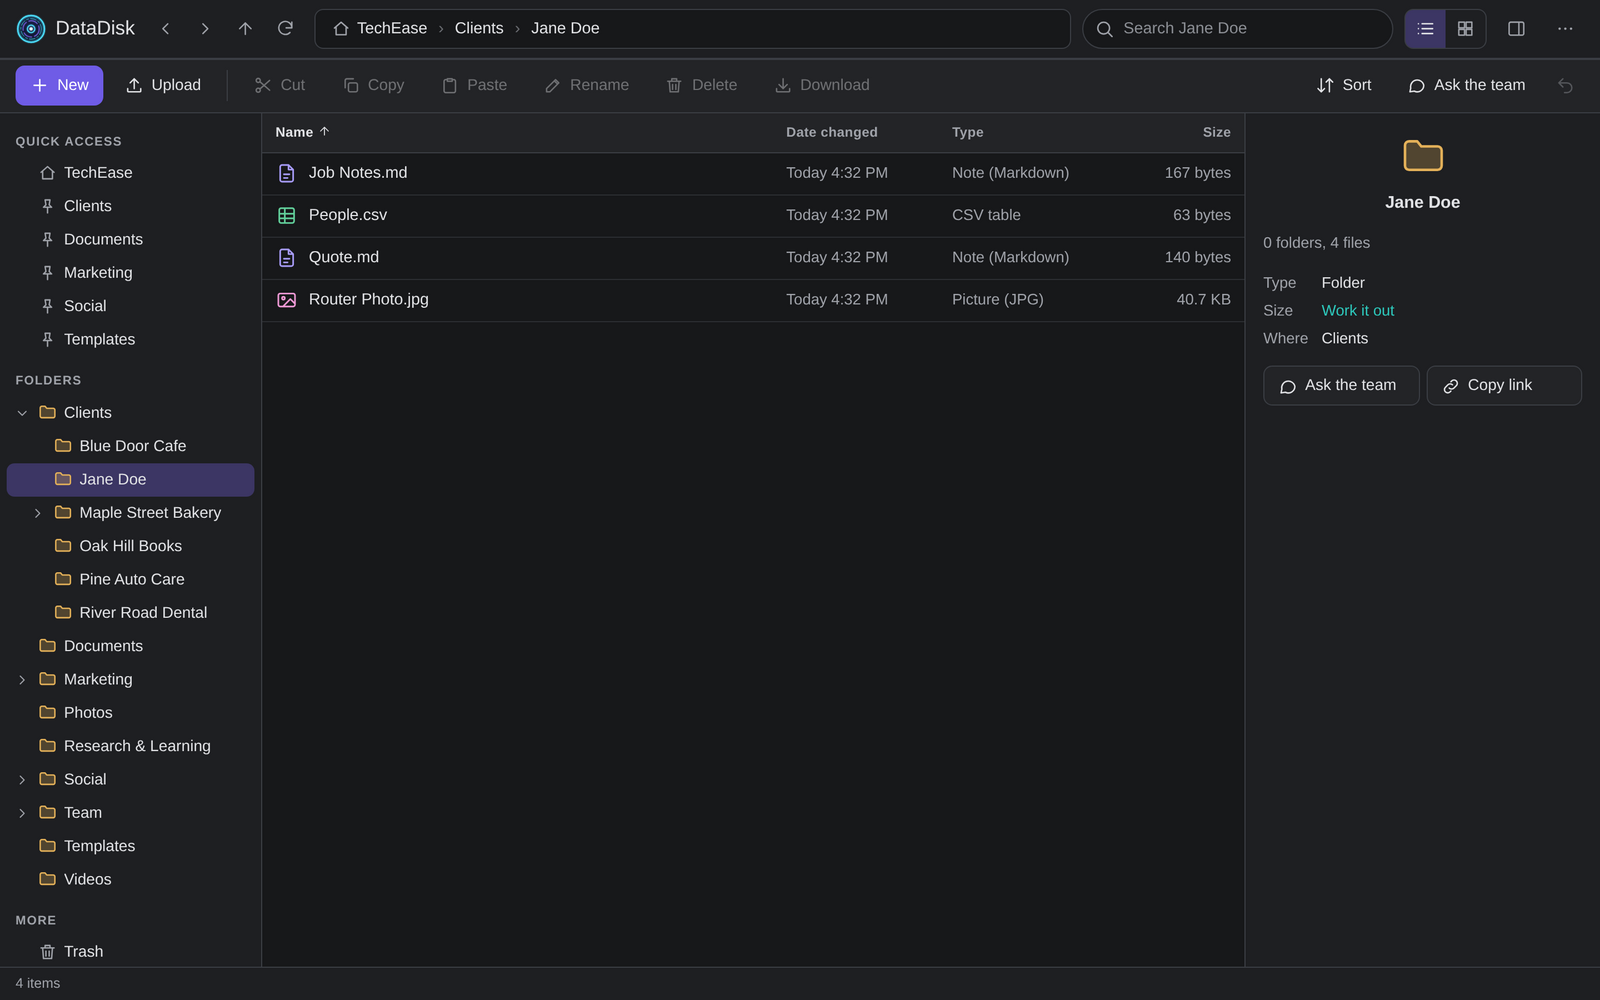
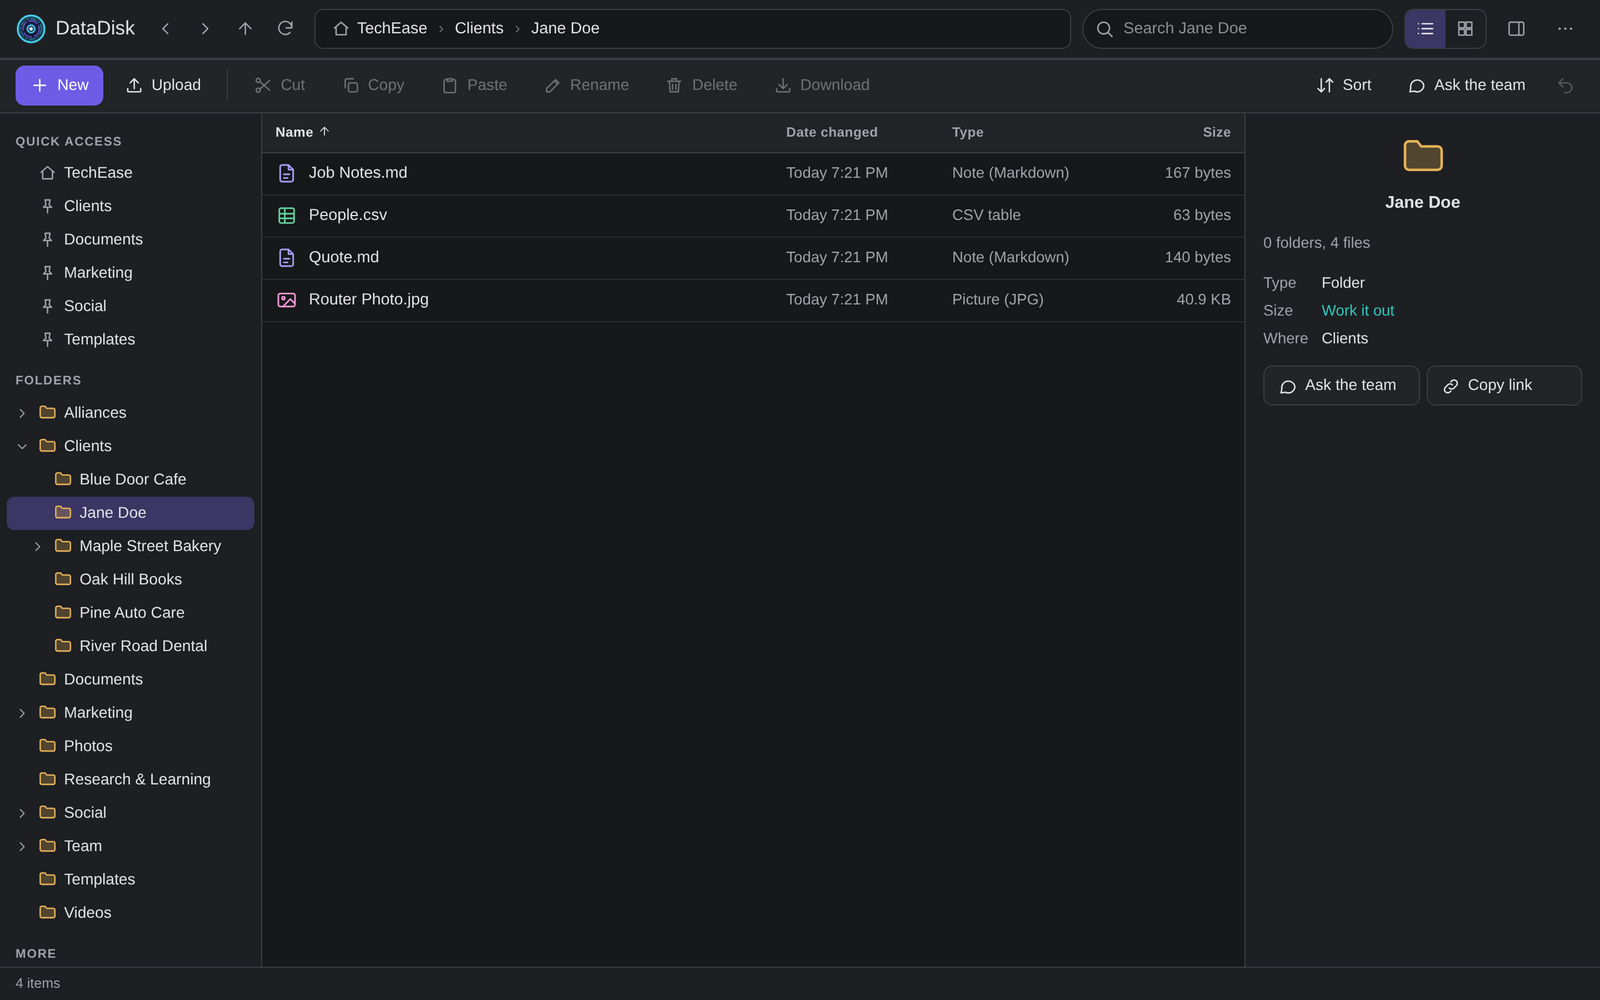
Retake page screenshots from the current build

Changed region(s): [[0.0, 0.403, 0.1562, 0.837], [0.0, 0.837, 0.0938, 0.961]]

diff --git a/CHANGELOG.md b/CHANGELOG.md
@@ -3,6 +3,8 @@
 Newest first. Plain English.
 
 ## Unreleased
+
+- Screenshots on the IO Tower, DataDisk, Site Watch and Accounts pages retaken from the current build.
 - Program pages show Light screenshots, with one Light and Dark example per program, so they read well on a phone.
 - **Knowledge Graph: routines on the map.** One line on the Knowledge Graph page and a mix-and-match row: with IO
   Tower, pick a routine and see its path across the map, step by step. No new screenshots yet.
